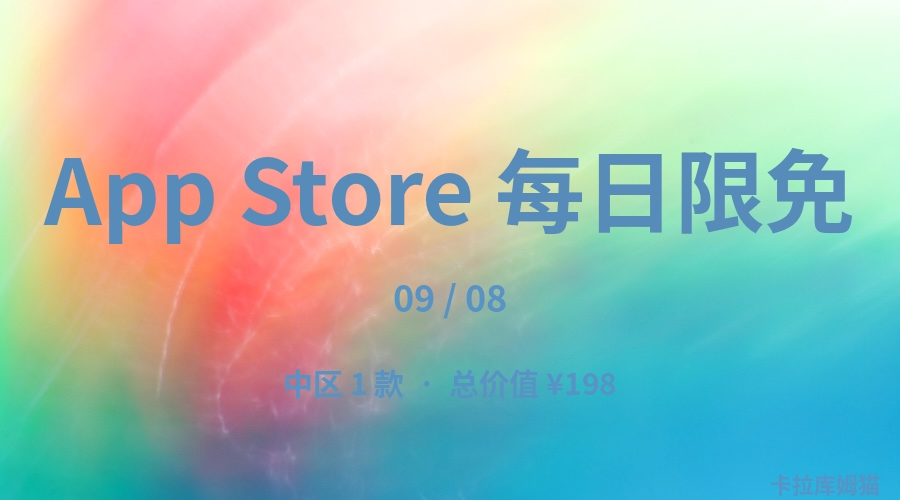
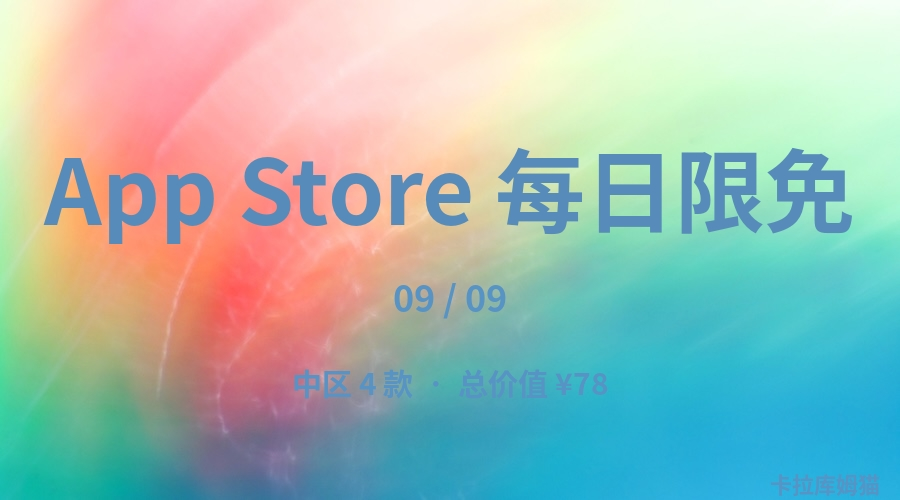
Generate article content [skip ci]

diff --git a/output_daily/article.html b/output_daily/article.html
@@ -1,1 +1,1 @@
-<section style="text-align:center;padding:24px 16px 14px;"><section style="display:inline-block;background:linear-gradient(135deg,#ff7b3d,#e05a2a);padding:6px 20px;border-radius:20px;"><span style="font-size:14px;font-weight:700;color:#ffffff;letter-spacing:1px;">09 / 08</span></section><p style="font-size:26px;font-weight:700;color:#2c2c2c;letter-spacing:1px;margin:16px 0 6px;">App Store 每日限免白嫖</p><p style="font-size:13px;color:#999999;margin:0;">iOS限免随时结束 · 长按扫码下载 · 手慢无</p></section><section style="text-align:center;padding:4px 0 16px;"><span style="display:inline-block;width:36px;height:3px;background-color:#e8724a;border-radius:2px;"></span></section><section style="text-align:center;padding:4px 0 16px;"><span style="display:inline-block;font-size:14px;font-weight:600;color:#e8724a;border:1px dashed #e8724a;border-radius:24px;padding:6px 20px;letter-spacing:1px;">⬇ 中区 1 款限免 · 长按扫码下载 ⬇</span></section><section style="text-align:center;padding:0 0 20px;"><span style="display:inline-block;font-size:12px;color:#6b6b6b;background-color:#ffffff;border:1px solid #e8e3db;border-radius:14px;padding:4px 12px;margin:2px 3px;">💰 总价值 <strong style="color:#2c2c2c;">¥198</strong></span><span style="display:inline-block;font-size:12px;color:#6b6b6b;background-color:#ffffff;border:1px solid #e8e3db;border-radius:14px;padding:4px 12px;margin:2px 3px;">🆓 中区全免 <strong style="color:#2c2c2c;">1</strong> 款</span><span style="display:inline-block;font-size:12px;color:#6b6b6b;background-color:#ffffff;border:1px solid #e8e3db;border-radius:14px;padding:4px 12px;margin:2px 3px;">⏰ 限时有效</span></section><section style="background-color:#ffffff;border:1px solid #e8e3db;border-radius:10px;margin:0 0 14px;padding:0;"><section style="padding:16px;"><section style="margin:0 0 10px;"><span style="display:inline-block;width:30px;height:30px;background-color:#fdf0ea;color:#e8724a;border-radius:8px;text-align:center;line-height:30px;font-size:14px;font-weight:700;vertical-align:middle;">1</span><span style="font-size:17px;font-weight:700;color:#2c2c2c;vertical-align:middle;margin:0 6px;">📱 NoPhoto - 限时决策，快速清理相册</span><span style="display:inline-block;background-color:#e8f7f1;color:#07a776;font-size:12px;font-weight:700;padding:3px 10px;border-radius:12px;margin:0 0 0 4px;vertical-align:middle;">限免中</span></section><section style="margin:0 0 10px;"><p style="font-size:13px;color:#6b6b6b;line-height:1.6;margin:0 0 0 42px;padding:8px 12px;background-color:#f9f7f4;border-radius:6px;border-left:3px solid #e8724a;">NoPhoto — 限时决策，快速清理相册  告别选择困难症，用限时审判模式快速决定每张照片的去留！  【核心用法】 点击「开始审判」进入限时决策模式，每张照片倒计时 1-10 秒，滑动或点击做出选择。审判结束后一次性确认，批量删除不纠结。...</p></section><section style="margin:0 0 10px;"><span style="color:#07a776;font-weight:700;font-size:16px;">中区 免费</span><span style="text-decoration:line-through;color:#999999;font-size:13px;margin:0 4px;">原价 ¥198</span><span style="display:inline-block;background-color:#fff0ed;color:#e8724a;font-size:11px;font-weight:600;padding:2px 8px;border-radius:8px;margin:0 0 0 6px;">省 ¥198</span></section><section style="margin:0 0 10px;"><span style="font-size:12px;color:#6b6b6b;">美区 免费</span></section><section style="text-align:center;margin:0;"><img src="{{IMG:qr_0}}" style="width:140px;height:140px;display:inline-block;border:1px solid #e8e3db;border-radius:6px;padding:4px;"><p style="font-size:11px;color:#999999;margin:4px 0 0;">▲ 长按识别二维码，跳转 App Store 下载</p></section></section></section><section style="text-align:center;padding:20px 16px 8px;"><p style="font-size:12px;color:#999999;line-height:1.8;margin:0;"><span style="color:#e8724a;">●</span> 限免价格随时可能恢复 · 下载前请确认最终价格 <span style="color:#e8724a;">●</span></p><p style="font-size:11px;color:#999999;margin:6px 0 0;">数据来源 App Store · 更新于 2026-09-08</p></section>
+<section style="text-align:center;padding:24px 16px 14px;"><section style="display:inline-block;background:linear-gradient(135deg,#ff7b3d,#e05a2a);padding:6px 20px;border-radius:20px;"><span style="font-size:14px;font-weight:700;color:#ffffff;letter-spacing:1px;">09 / 09</span></section><p style="font-size:26px;font-weight:700;color:#2c2c2c;letter-spacing:1px;margin:16px 0 6px;">App Store 每日限免白嫖</p><p style="font-size:13px;color:#999999;margin:0;">iOS限免随时结束 · 长按扫码下载 · 手慢无</p></section><section style="text-align:center;padding:4px 0 16px;"><span style="display:inline-block;width:36px;height:3px;background-color:#e8724a;border-radius:2px;"></span></section><section style="text-align:center;padding:4px 0 16px;"><span style="display:inline-block;font-size:14px;font-weight:600;color:#e8724a;border:1px dashed #e8724a;border-radius:24px;padding:6px 20px;letter-spacing:1px;">⬇ 中区 4 款限免 · 长按扫码下载 ⬇</span></section><section style="text-align:center;padding:0 0 20px;"><span style="display:inline-block;font-size:12px;color:#6b6b6b;background-color:#ffffff;border:1px solid #e8e3db;border-radius:14px;padding:4px 12px;margin:2px 3px;">💰 总价值 <strong style="color:#2c2c2c;">¥78</strong></span><span style="display:inline-block;font-size:12px;color:#6b6b6b;background-color:#ffffff;border:1px solid #e8e3db;border-radius:14px;padding:4px 12px;margin:2px 3px;">🆓 中区全免 <strong style="color:#2c2c2c;">4</strong> 款</span><span style="display:inline-block;font-size:12px;color:#6b6b6b;background-color:#ffffff;border:1px solid #e8e3db;border-radius:14px;padding:4px 12px;margin:2px 3px;">⏰ 限时有效</span></section><section style="background-color:#ffffff;border:1px solid #e8e3db;border-radius:10px;margin:0 0 14px;padding:0;"><section style="padding:16px;"><section style="margin:0 0 10px;"><span style="display:inline-block;width:30px;height:30px;background-color:#fdf0ea;color:#e8724a;border-radius:8px;text-align:center;line-height:30px;font-size:14px;font-weight:700;vertical-align:middle;">1</span><span style="font-size:17px;font-weight:700;color:#2c2c2c;vertical-align:middle;margin:0 6px;">🔧 壁酷</span><span style="display:inline-block;background-color:#e8f7f1;color:#07a776;font-size:12px;font-weight:700;padding:3px 10px;border-radius:12px;margin:0 0 0 4px;vertical-align:middle;">限免中</span><span style="display:inline-block;background-color:#e8f0fc;color:#3c7ce0;font-size:12px;font-weight:500;padding:3px 10px;border-radius:12px;margin:0 0 0 4px;vertical-align:middle;">工具</span></section><section style="margin:0 0 10px;"><p style="font-size:13px;color:#6b6b6b;line-height:1.6;margin:0 0 0 42px;padding:8px 12px;background-color:#f9f7f4;border-radius:6px;border-left:3px solid #e8724a;">这是一款以极简为设计理念的壁纸APP，他能为你提供便捷的获取壁纸途径。我们尤为看重壁纸质量，期待与你相遇～</p></section><section style="margin:0 0 10px;"><span style="color:#07a776;font-weight:700;font-size:16px;">中区 免费</span><span style="text-decoration:line-through;color:#999999;font-size:13px;margin:0 4px;">原价 ¥3</span><span style="display:inline-block;background-color:#fff0ed;color:#e8724a;font-size:11px;font-weight:600;padding:2px 8px;border-radius:8px;margin:0 0 0 6px;">省 ¥3</span></section><section style="margin:0 0 10px;"><span style="font-size:12px;color:#6b6b6b;">美区 免费</span></section><section style="text-align:center;margin:0;"><img src="{{IMG:qr_0}}" style="width:140px;height:140px;display:inline-block;border:1px solid #e8e3db;border-radius:6px;padding:4px;"><p style="font-size:11px;color:#999999;margin:4px 0 0;">▲ 长按识别二维码，跳转 App Store 下载</p></section></section></section><section style="background-color:#ffffff;border:1px solid #e8e3db;border-radius:10px;margin:0 0 14px;padding:0;"><section style="padding:16px;"><section style="margin:0 0 10px;"><span style="display:inline-block;width:30px;height:30px;background-color:#fdf0ea;color:#e8724a;border-radius:8px;text-align:center;line-height:30px;font-size:14px;font-weight:700;vertical-align:middle;">2</span><span style="font-size:17px;font-weight:700;color:#2c2c2c;vertical-align:middle;margin:0 6px;">🎮 毛虫</span><span style="display:inline-block;background-color:#e8f7f1;color:#07a776;font-size:12px;font-weight:700;padding:3px 10px;border-radius:12px;margin:0 0 0 4px;vertical-align:middle;">限免中</span><span style="display:inline-block;background-color:#e8f0fc;color:#3c7ce0;font-size:12px;font-weight:500;padding:3px 10px;border-radius:12px;margin:0 0 0 4px;vertical-align:middle;">游戏</span></section><section style="margin:0 0 10px;"><p style="font-size:13px;color:#6b6b6b;line-height:1.6;margin:0 0 0 42px;padding:8px 12px;background-color:#f9f7f4;border-radius:6px;border-left:3px solid #e8724a;">通过将设备作为控制器倾斜来播放这种经典的“蛇”游戏。  使用这种新颖的控制技术，朝向毛毛虫吃叶子的方向倾斜。饮食使毛毛虫的长度长度增长，从而提供了更多的挑战。有时会出现不同的彩色叶子，导致不同的事情发生！  “这是一个很好的小游戏，值得一看...</p></section><section style="margin:0 0 10px;"><span style="color:#07a776;font-weight:700;font-size:16px;">中区 免费</span><span style="text-decoration:line-through;color:#999999;font-size:13px;margin:0 4px;">原价 ¥22</span><span style="display:inline-block;background-color:#fff0ed;color:#e8724a;font-size:11px;font-weight:600;padding:2px 8px;border-radius:8px;margin:0 0 0 6px;">省 ¥22</span></section><section style="margin:0 0 10px;"><span style="font-size:12px;color:#6b6b6b;">美区 免费</span></section><section style="text-align:center;margin:0;"><img src="{{IMG:qr_1}}" style="width:140px;height:140px;display:inline-block;border:1px solid #e8e3db;border-radius:6px;padding:4px;"><p style="font-size:11px;color:#999999;margin:4px 0 0;">▲ 长按识别二维码，跳转 App Store 下载</p></section></section></section><section style="background-color:#ffffff;border:1px solid #e8e3db;border-radius:10px;margin:0 0 14px;padding:0;"><section style="padding:16px;"><section style="margin:0 0 10px;"><span style="display:inline-block;width:30px;height:30px;background-color:#fdf0ea;color:#e8724a;border-radius:8px;text-align:center;line-height:30px;font-size:14px;font-weight:700;vertical-align:middle;">3</span><span style="font-size:17px;font-weight:700;color:#2c2c2c;vertical-align:middle;margin:0 6px;">📱 Recipes for Filters & Presets</span><span style="display:inline-block;background-color:#e8f7f1;color:#07a776;font-size:12px;font-weight:700;padding:3px 10px;border-radius:12px;margin:0 0 0 4px;vertical-align:middle;">限免中</span></section><section style="margin:0 0 10px;"><p style="font-size:13px;color:#6b6b6b;line-height:1.6;margin:0 0 0 42px;padding:8px 12px;background-color:#f9f7f4;border-radius:6px;border-left:3px solid #e8724a;">精品类应用，限时免费中。</p></section><section style="margin:0 0 10px;"><span style="color:#07a776;font-weight:700;font-size:16px;">中区 免费</span><span style="text-decoration:line-through;color:#999999;font-size:13px;margin:0 4px;">原价 ¥15</span><span style="display:inline-block;background-color:#fff0ed;color:#e8724a;font-size:11px;font-weight:600;padding:2px 8px;border-radius:8px;margin:0 0 0 6px;">省 ¥15</span></section><section style="margin:0 0 10px;"><span style="font-size:12px;color:#6b6b6b;">美区 免费</span></section><section style="text-align:center;margin:0;"><img src="{{IMG:qr_2}}" style="width:140px;height:140px;display:inline-block;border:1px solid #e8e3db;border-radius:6px;padding:4px;"><p style="font-size:11px;color:#999999;margin:4px 0 0;">▲ 长按识别二维码，跳转 App Store 下载</p></section></section></section><section style="background-color:#ffffff;border:1px solid #e8e3db;border-radius:10px;margin:0 0 14px;padding:0;"><section style="padding:16px;"><section style="margin:0 0 10px;"><span style="display:inline-block;width:30px;height:30px;background-color:#fdf0ea;color:#e8724a;border-radius:8px;text-align:center;line-height:30px;font-size:14px;font-weight:700;vertical-align:middle;">4</span><span style="font-size:17px;font-weight:700;color:#2c2c2c;vertical-align:middle;margin:0 6px;">📚 檸檬樹-標準日本語【每日一句】生活實用篇</span><span style="display:inline-block;background-color:#e8f7f1;color:#07a776;font-size:12px;font-weight:700;padding:3px 10px;border-radius:12px;margin:0 0 0 4px;vertical-align:middle;">限免中</span><span style="display:inline-block;background-color:#e8f0fc;color:#3c7ce0;font-size:12px;font-weight:500;padding:3px 10px;border-radius:12px;margin:0 0 0 4px;vertical-align:middle;">教育</span></section><section style="margin:0 0 10px;"><p style="font-size:13px;color:#6b6b6b;line-height:1.6;margin:0 0 0 42px;padding:8px 12px;background-color:#f9f7f4;border-radius:6px;border-left:3px solid #e8724a;">***具體教學：遇到實際會話場面，『情緒反應』如何結合『文法規則』，進而說出正確日語！***  著眼「日語如何學以致用」， 大量介紹「具體的日語會話場面」，並詳述「臨場溝通所使用的規則性文法」 每一句會話「都能呼應、驗證文法規則」 並提示日...</p></section><section style="margin:0 0 10px;"><span style="color:#07a776;font-weight:700;font-size:16px;">中区 免费</span><span style="text-decoration:line-through;color:#999999;font-size:13px;margin:0 4px;">原价 ¥38</span><span style="display:inline-block;background-color:#fff0ed;color:#e8724a;font-size:11px;font-weight:600;padding:2px 8px;border-radius:8px;margin:0 0 0 6px;">省 ¥38</span></section><section style="margin:0 0 10px;"><span style="font-size:12px;color:#6b6b6b;">美区 免费</span></section><section style="text-align:center;margin:0;"><img src="{{IMG:qr_3}}" style="width:140px;height:140px;display:inline-block;border:1px solid #e8e3db;border-radius:6px;padding:4px;"><p style="font-size:11px;color:#999999;margin:4px 0 0;">▲ 长按识别二维码，跳转 App Store 下载</p></section></section></section><section style="text-align:center;padding:20px 16px 8px;"><p style="font-size:12px;color:#999999;line-height:1.8;margin:0;"><span style="color:#e8724a;">●</span> 限免价格随时可能恢复 · 下载前请确认最终价格 <span style="color:#e8724a;">●</span></p><p style="font-size:11px;color:#999999;margin:6px 0 0;">数据来源 App Store · 更新于 2026-09-09</p></section>
